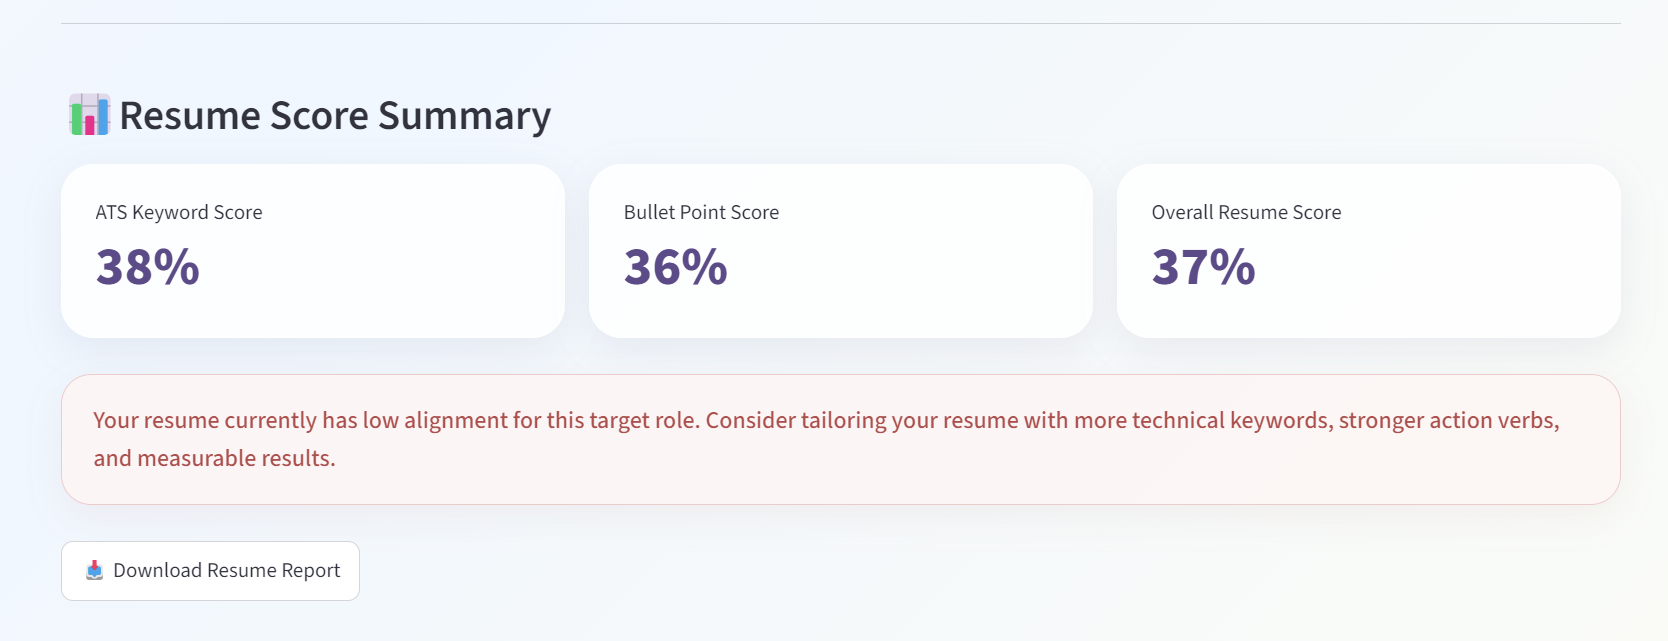
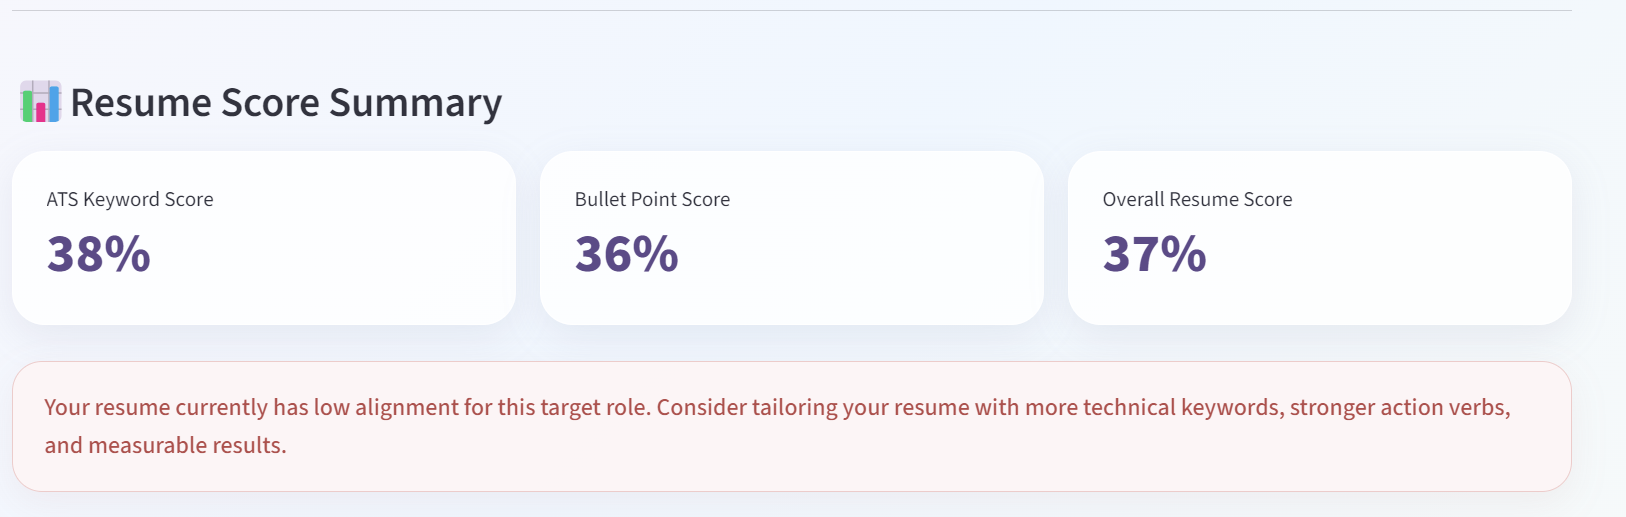
Update Screenshots

diff --git a/README.md b/README.md
@@ -55,6 +55,9 @@ The app currently supports keyword analysis for:
 ### Job Description Matcher
 ![Job Description Matcher](screenshots/job_description_matcher.png)
 
+### Download Resume Report
+![Resume Report](screenshots/download_resume_report.png)
+
 
 ## How to Run Locally
 